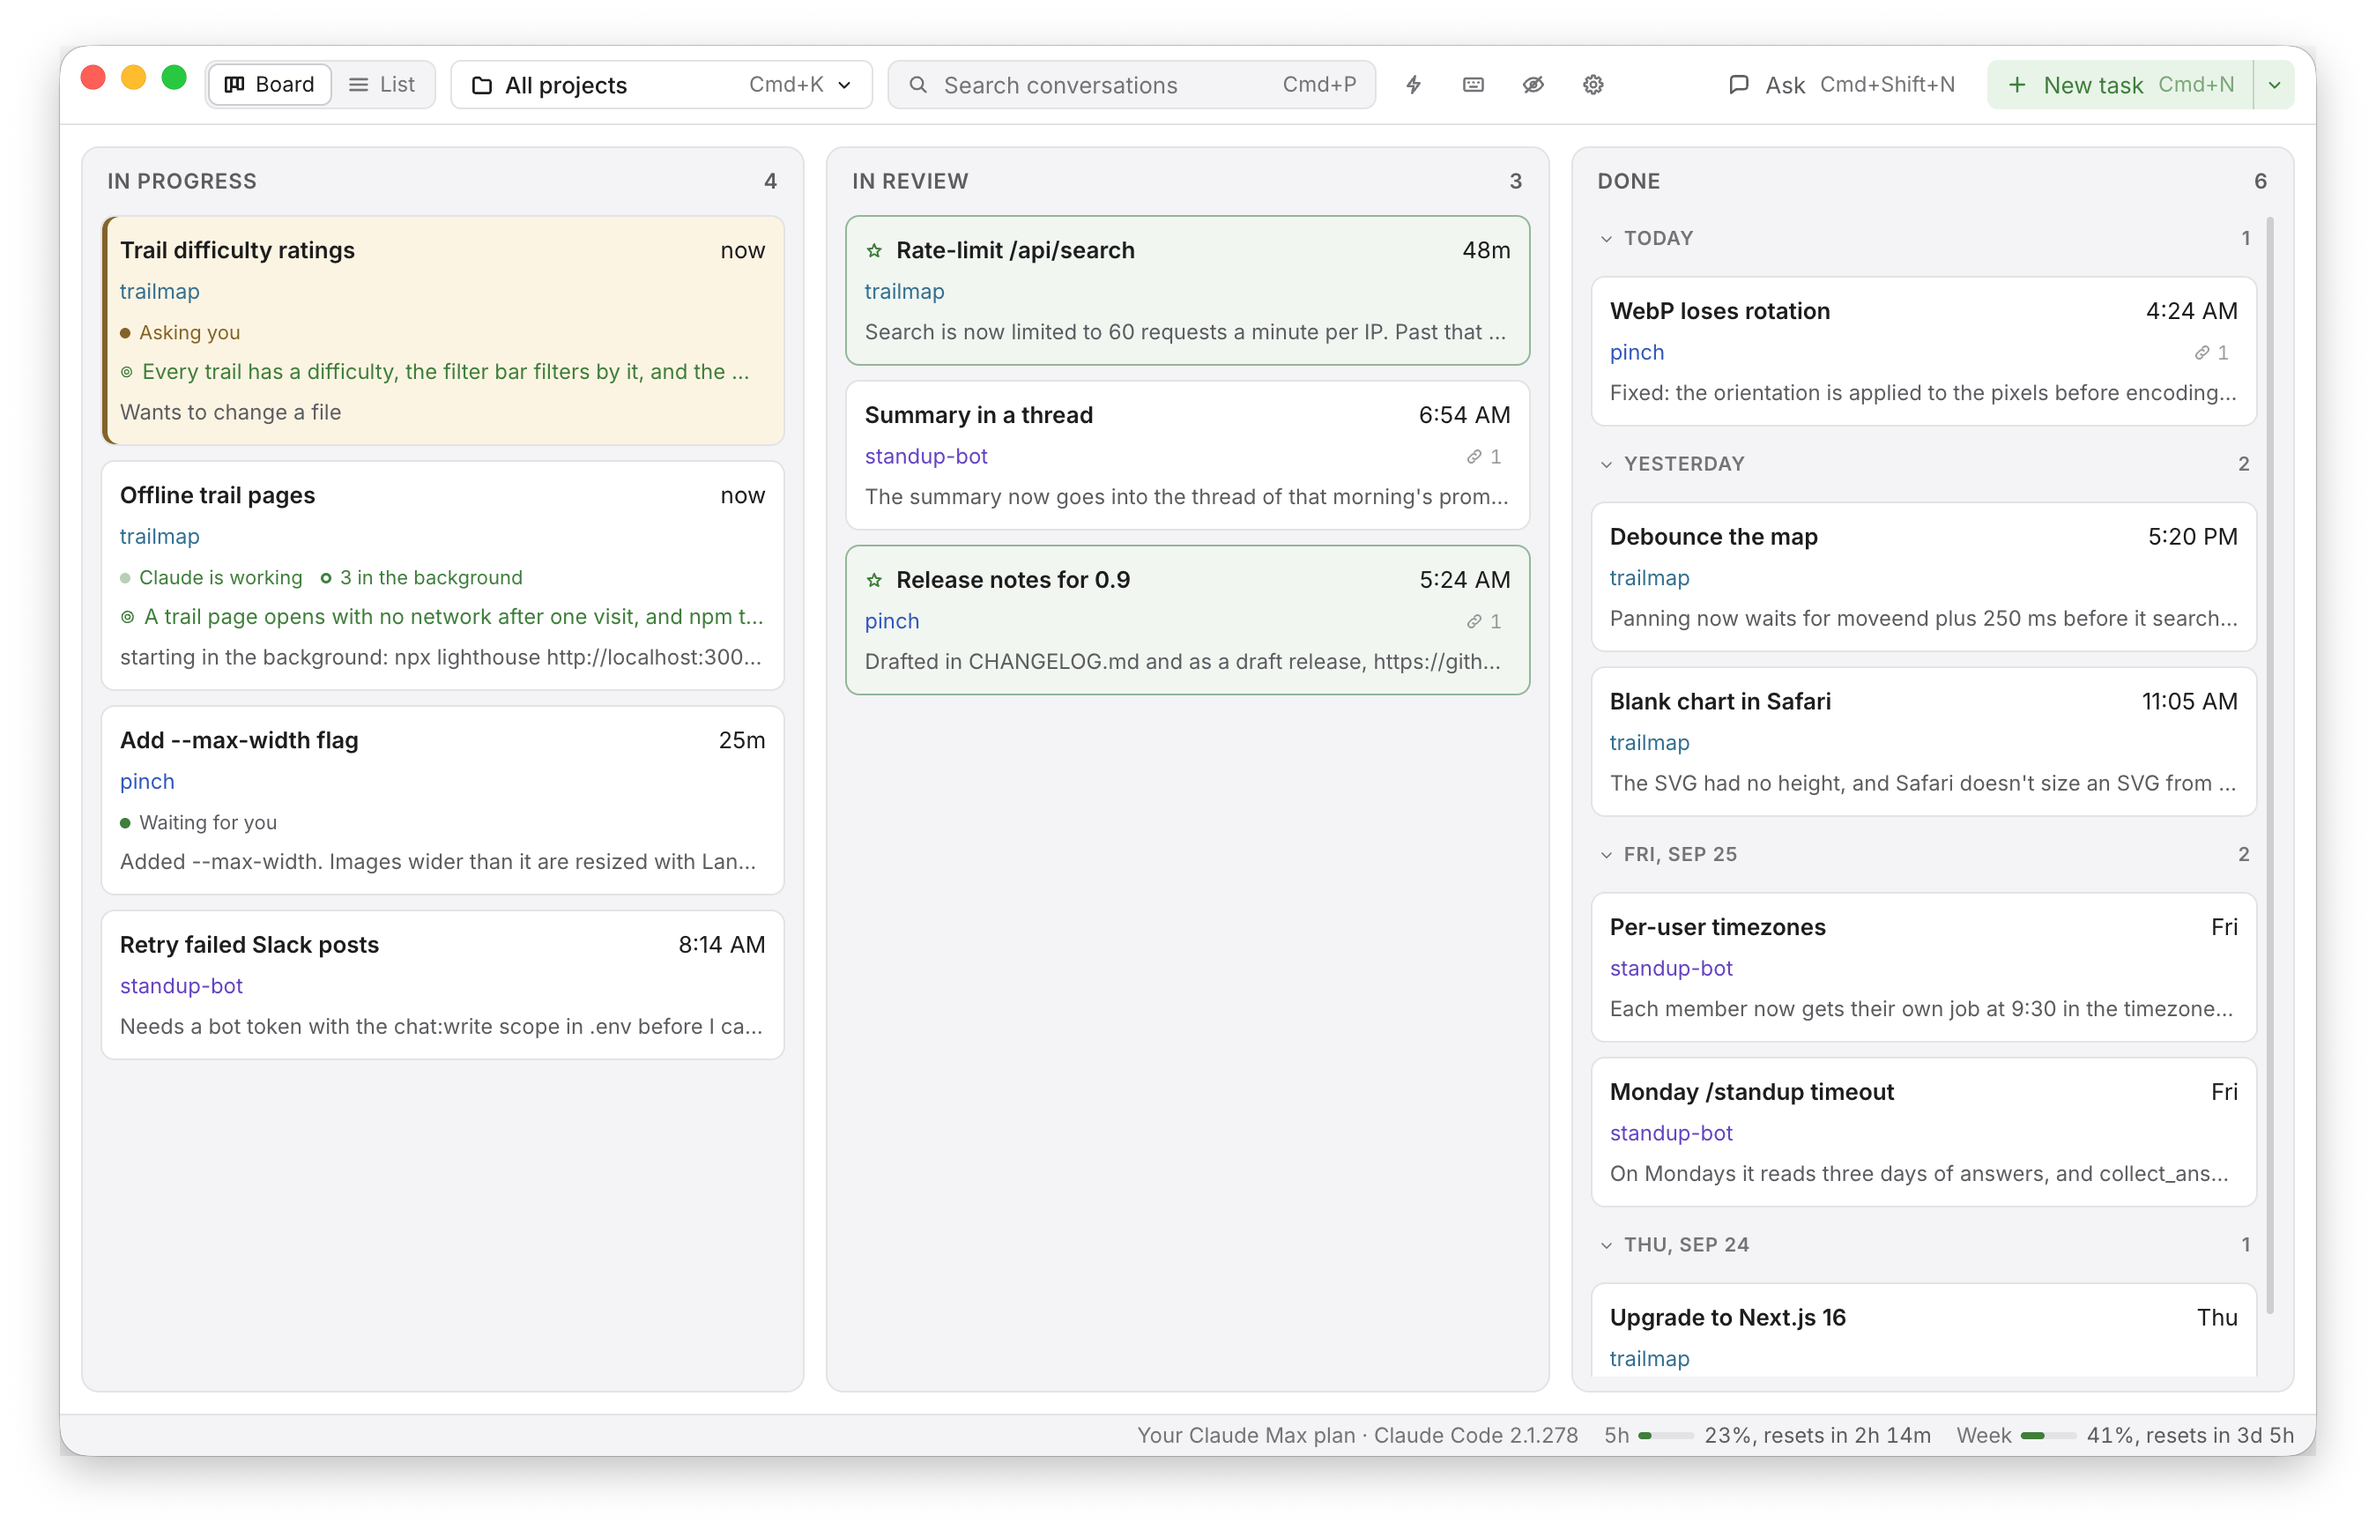
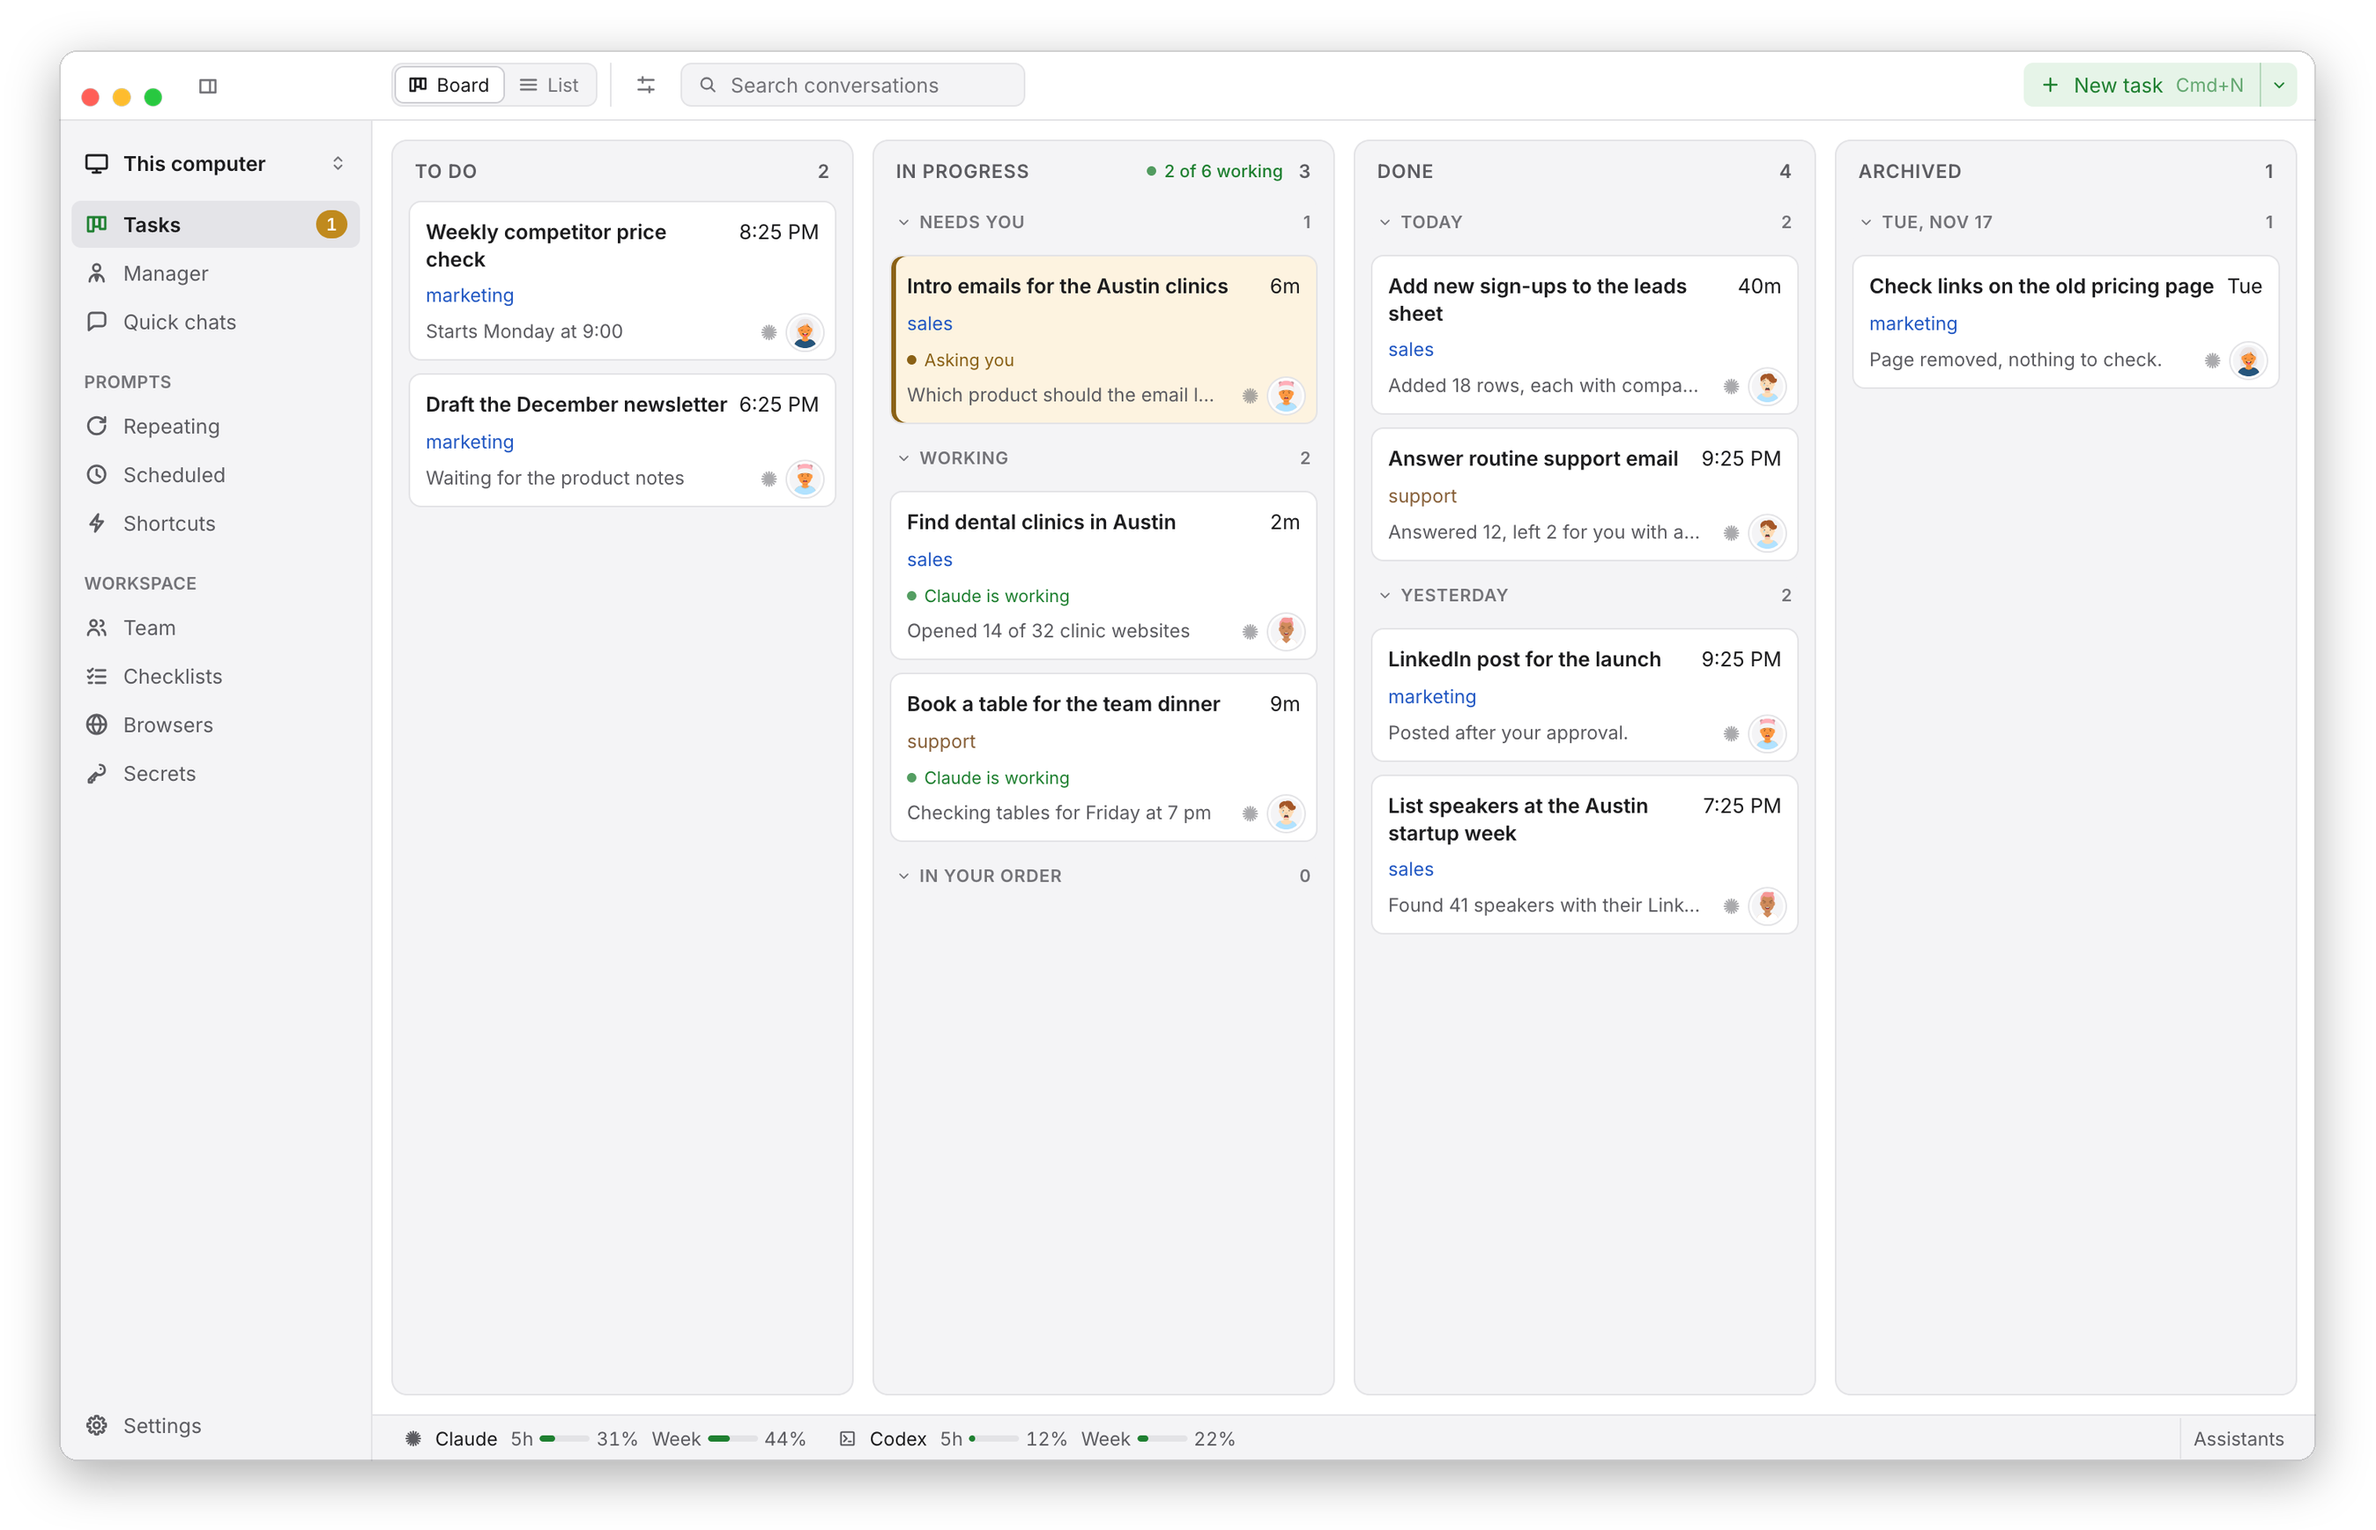
docs(readme): current screenshots, team, browser, secrets and checklists

diff --git a/README.md b/README.md
@@ -6,7 +6,7 @@
 
 Working with several Codex or Claude Code conversations at once? See which are working, which are waiting for you and which are done.
 
-GeckIt puts Codex and Claude Code conversations on one Kanban board across your projects. It also corrects selected text and transcribes speech with a shortcut.
+GeckIt puts Codex and Claude Code conversations on one Kanban board across your projects. Conversations can be employees with a role, and a Manager hands them work, including requests written in Slack, Telegram or Discord. It also corrects selected text and transcribes speech with a shortcut.
 
 <p align="center">
   <a href="https://github.com/anetrebskii/geckit/releases/latest/download/GeckIt-arm64.dmg"><img src="docs/download-macos-arm.svg" height="48" alt="Download for macOS, Apple Silicon"></a>
@@ -19,11 +19,11 @@ GeckIt puts Codex and Claude Code conversations on one Kanban board across your 
 
 <p align="center">GeckIt is not made by or affiliated with Anthropic or OpenAI. Claude and Claude Code are trademarks of Anthropic.</p>
 
-<a href="https://github.com/user-attachments/assets/3dbb1aa1-d750-4e84-a60e-d579cb2aa5ec">
-  <img src="docs/video/geckit-light.webp" alt="A new task with a goal is started, Claude works on it, a question from another task is answered, and the new card moves to In review by itself">
+<a href="https://geckit.app/shots/demo.mp4">
+  <img src="docs/video/geckit-light.webp" alt="A Slack request reaches the Manager, Researcher's card appears on the board and collects clinics, Writer asks which product to lead with, the answer is given and the clinics card moves to Done">
 </a>
 
-A new task is started with a goal. While Claude works on it, another task asks to run a command and gets an answer. When the goal holds, the card moves to In review by itself. [Play it as a video](https://github.com/user-attachments/assets/3dbb1aa1-d750-4e84-a60e-d579cb2aa5ec).
+A request in Slack reaches the Manager, who hands it to Researcher. Writer asks one question before drafting, gets an answer, and the finished task moves to Done. [Play it as a video](https://geckit.app/shots/demo.mp4).
 
 The iPhone app is on [TestFlight](https://testflight.apple.com/join/7B7vbk2e). It is in Apple's review now, so the link opens once the review passes.
 
@@ -32,16 +32,16 @@ The iPhone app is on [TestFlight](https://testflight.apple.com/join/7B7vbk2e). I
 Working in terminal tabs, it is easy to miss a conversation that is waiting for you. GeckIt shows Codex and Claude Code conversations as cards on one board, across projects.
 
 <picture>
-  <img src="docs/screenshots/board-light.png" alt="The board: Claude Code conversations from three projects as cards in In progress, In review and Done">
+  <img src="docs/screenshots/board-light.png" alt="The board: conversations from three projects as cards in To do, In progress, Done and Archived, with the employee on each card">
 </picture>
 
-- Three columns: To do, In progress, Done. A card is dragged from one to the next, and To do is ordered by hand, and Done is grouped by the day a card was closed. View options in the top bar shows any of them, one or several.
+- Four columns: To do, In progress, Done and Archived. A card is dragged from one to the next, To do is ordered by hand, In progress puts what needs you first, and Done is grouped by the day a card was closed. View options in the top bar shows any of them, one or several.
 - A card shows its project, whether the assistant is working or waiting for you, its goal and links from the conversation.
 - New task starts a conversation in a project, with an optional goal, or plans it in To do without sending. The assistant keeps working until the goal holds, then the card shows Goal reached and stays where it is.
 - All projects on one board, or one project at a time with Cmd+K.
 - Cmd+click or Shift+click picks several cards, and they are moved, hidden or deleted together. Hidden conversations are behind their own button in the top bar.
 - A conversation keeps its process for ten minutes after it answers; the card's menu lets it go sooner, and the next message takes it up again from its file.
-- Ask (Cmd+Shift+N) is a question outside any project. It is not put on the board.
+- A quick chat (Cmd+Shift+N) is a question outside any project. It is not put on the board.
 
 ### Search
 
@@ -59,12 +59,28 @@ Keep work and your own projects apart. A profile is a set of projects, for examp
   <img src="docs/screenshots/profiles-light.png" alt="Settings, Profiles: All projects, Work and Side projects">
 </picture>
 
+## Team
+
+Give work to employees instead of to a list of chats. An employee is an assistant with a name, a role and its own instructions, and every task it does stays in its history.
+
+<picture>
+  <img src="docs/screenshots/team-light.png" alt="Team: Manager, Researcher, Writer, Assistant and Analyst, with Researcher's tasks and rules open">
+</picture>
+
+- Team lists the employees with their open tasks. Each one has its shortcuts, tasks, rules and the conversations it can read back.
+- The Manager is a conversation that hands work to employees, follows it and answers you. Write to it in GeckIt, or connect Slack, Telegram or Discord in Settings, Channels, and write to it there.
+- Each Slack thread or Telegram chat is its own Manager thread, and the Manager's answer goes back to where you asked.
+
+<picture>
+  <img src="docs/screenshots/manager-light.png" alt="The Manager chat: a request from Slack #sales, handed to Researcher and then to Writer">
+</picture>
+
 ## Conversations
 
 Press a card and the conversation opens over the board. Work with Codex or Claude Code there instead of switching between terminal tabs.
 
 <picture>
-  <img src="docs/screenshots/board-open-light.png" alt="A card opened over the board: the Claude Code conversation, marked In review">
+  <img src="docs/screenshots/board-open-light.png" alt="A card opened over the board: Researcher's conversation collecting dental clinics, still working">
 </picture>
 
 - Ctrl+Tab switches between conversations as it works in VS Code between files.
@@ -83,6 +99,26 @@ Press a card and the conversation opens over the board. Work with Codex or Claud
 
 <picture>
   <img src="docs/screenshots/list-light.png" alt="The list view: conversations grouped by project in a sidebar, with favorites at the top">
+</picture>
+
+## Browser, secrets and checklists
+
+Employees work on websites in your own Chrome, in the tabs you are signed in to, through the GeckIt Browser extension. Every browser step is in the conversation, with a picture of the page it saw.
+
+<picture>
+  <img src="docs/screenshots/browser-light.png" alt="A conversation with its browser steps: Google Maps searched, clinic websites opened, and a screenshot of one clinic's page">
+</picture>
+
+When a task needs a password or an API key, the conversation sends you a link. You type the value on that page, it is encrypted there for your computer, and the conversation uses it by name without ever seeing it. Settings, Secrets lists what is kept and where each is used.
+
+<p align="center">
+  <img src="docs/screenshots/secret-light.png" width="300" alt="The secret page on an iPhone: a CRM login asked for by a task, with where it will be used">
+</p>
+
+A task's goal can be a checklist: results in order, each checked by a command, by evidence shown in the conversation, or by you. GeckIt sets one item at a time as the goal, and an item for a person stops the task until you press Approve.
+
+<picture>
+  <img src="docs/screenshots/checklist-light.png" alt="A task with its checklist open: two items passed, Drafts approved waiting for Approve, and Approved emails sent next">
 </picture>
 
 ## Screen recording
